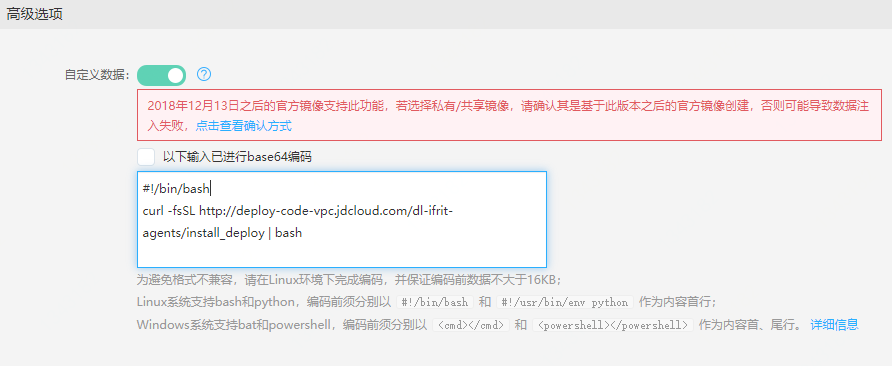
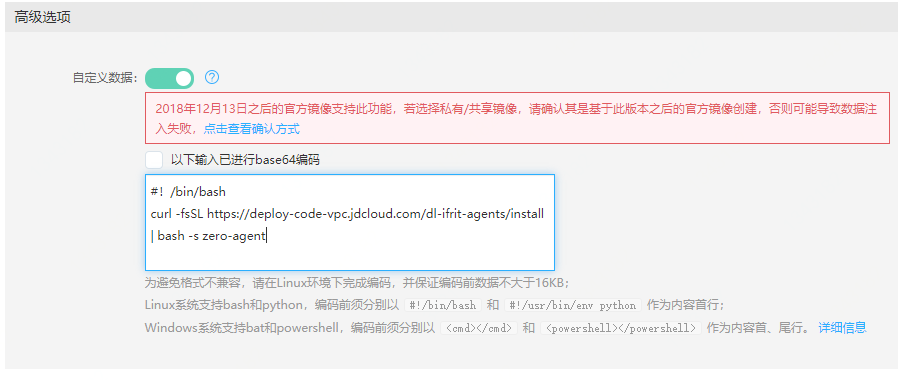
fix bugs
修改了文字上的小问题

Changed region(s): [[0.0603, 0.1784, 0.9955, 0.8919], [0.0, 0.0, 0.0905, 0.0595]]

diff --git a/documentation/Management/OpsWork/Operation-Guide/File-operation.md b/documentation/Management/OpsWork/Operation-Guide/File-operation.md
@@ -2,12 +2,14 @@
 | 字段     | 必须 | 类型   | 含义                                                         | 示例                                                         |
 | -------- | ---- | ------ | ------------------------------------------------------------ | ------------------------------------------------------------ |
 | path     | 是   | string | 要操作的文件绝对路径                                         | /usr/opt/openjdk.tar.gz                                      |
-| action   | 是   | string | _enum_: `copy`、`delete`、`update`、`create`                           | copy                                                         |
+| action   | 是   | string | _enum_: `copy`、`delete`、`update`、`create`                 | copy                                                         |
 | source   | 否   | string | 如果 action=copy，不能为空，可以是本机绝对路径或下载地址<br>支持OSS下载。 | https://download.java.net/java/GA/jdk13/5b8a42f3905b406298b72d750b6919f6/33/GPL/openjdk-13_linux-x64_bin.tar.gz |
 | force    | 否   | bool   | 如果 action=copy，表示是否覆盖已有的同名文件，默认 true      | true                                                         |
 | content  | 否   | string | 如果 action=update，不能为空，要更新的文件内容               | hello world!                                                 |
 | backup   | 否   | bool   | 如果 action=copy/update 且设为 true，则将原同名文件重命名为 "filename.bak.${timestamp}" 形式，默认 false | false                                                        |
+| append   | 否   | bool   | 是否追加写，默认是false（即**覆盖**）                        | false                                                        |
 | md5check | 否   | string | 如 action=copy/update 且非空，则进行 md5sum 检查             | 1d9af91cd042b403e75badd110ccf751                             |
 | mode     | 否   | string | 如 action=copy/update 且非空，执行 chmod                     | 0644                                                         |
 | owner    | 否   | string | 如 action=copy/update 且非空，执行 chown                     | work                                                         |
 | group    | 否   | string | 如 action=copy/update 且非空，执行 chown                     | root                                                         |
+

diff --git a/documentation/Management/OpsWork/Operation-Guide/Package-operation.md b/documentation/Management/OpsWork/Operation-Guide/Package-operation.md
@@ -1,12 +1,14 @@
 # 软件操作 schema
 
-| 字段     | 必须 | 类型   | 含义                                                         | 示例          |
-| -------- | ---- | ------ | ------------------------------------------------------------ | ------------- |
-| name     | 是   | string | 包名                                                         | openjdk-devel |
-| provider | 是   | string | green代表绿色安装，auto代表从yum或apt源自动安装              | green         |
-| version  | 是   | string | 版本。provider字段为auto时该字段无效。                       | 1.0.1         |
-| rootdir  | 否   | string | 自定义根路径，默认 /usr/opt。provider字段为auto时该字段无效。 | /usr/opt      |
-| force    | 否   | bool   | 覆盖已有版本（默认 true）；如传 false 且探测到已安装其他版本，返回127 | true          |
+| 字段             | 必须 | 类型   | 含义                                                         | 示例          |
+| ---------------- | ---- | ------ | ------------------------------------------------------------ | ------------- |
+| name             | 是   | string | 包名                                                         | openjdk-devel |
+| provider         | 是   | string | green代表绿色安装，auto代表从yum或apt源自动安装              | green         |
+| version          | 是   | string | 版本。provider字段为auto时该字段无效。                       | 1.0.1         |
+| rootdir          | 否   | string | 自定义根路径，默认 /usr/opt。provider字段为auto时该字段无效。 | /usr/opt      |
+| force            | 否   | bool   | 覆盖已有版本（默认 true）；如传 false 且探测到已安装其他版本，返回127 | true          |
+| action           | 否   | string | install或upgrade，代表自动从源安装或升级。在provider为auto时必填。 | install       |
+| version_optional | 否   | string | provider为green时，可以支持的version版本。                   |               |
 
 **tips：**
 

diff --git a/documentation/Management/OpsWork/Operation-Guide/Operation-parameters.md b/documentation/Management/OpsWork/Operation-Guide/Operation-parameters.md
@@ -1,4 +1,4 @@
-# 基础参数
+# 操作基础参数
 
 基础参数是每一个操作都会带有的参数。
 
@@ -16,7 +16,7 @@
 
 | 字段     | 必须 | 类型   | 含义                                                         | 示例                 |
 | -------- | ---- | ------ | ------------------------------------------------------------ | -------------------- |
-| connect  | 否   | string | 逻辑连接， _enum_: `and`、`or`，默认空，左优先               | success              |
-| key      | 是   | string | 要比较的变量名，内置支持 `$name.code`、`$name.stdout`、`$name.stderr` 三种方式获取已执行完成操作的返回值、标准输出、标准错误 | prepare_install:code |
+| connect  | 否   | string | 逻辑连接， _enum_: `and`、`or`，默认空，左优先               |                      |
+| key      | 是   | string | 要比较的变量名，内置支持 `$name.code`获取已执行完成操作的返回值 | prepare_install.code |
 | operator | 是   | string | _enum_: <br>`>`、`<`、`=`、`>=`、`<=`、`!=`、`<`<br>`in`-key 字符串包含于 value 字符串<br>`notIn`-key 字符串不包含于 value 字符串<br>`contain`-key 字符串包含 value 字符串<br>`notContain`-key 字符串不包含 value 字符串 | notIn                |
-| value    | 是   | string | 要比较的值                                                   | success              |
+| value    | 是   | string | 要比较的值，`$name.code`返回值只有0，1.代表正常结束和异常结束 | 0                    |

diff --git a/documentation/Management/OpsWork/Operation-Guide/Agent-install.md b/documentation/Management/OpsWork/Operation-Guide/Agent-install.md
@@ -18,7 +18,7 @@
 手动安装，请登录到待安装/异常主机，执行以下命令
 
 ```shell
-curl -fsSL http://deploy-code-vpc.jdcloud.com/dl-ifrit-agents/install_deploy | bash
+curl -fsSL https://deploy-code-vpc.jdcloud.com/dl-ifrit-agents/install | bash -s zero-agent
 ```
 
 以向华北-北京地域的云主机安装Agent为例，
@@ -31,6 +31,6 @@ Agent状态为“正常”、“异常”两种。
 
 **版本升级**
 
-当Agent发布新版本时，将自动进行版本升级，且更新过程对用户透明，不会影响云部署的功能使用。
+当Agent发布新版本时，将自动进行版本升级，且更新过程对用户透明，不会影响云部署和运维工具的功能使用。
 
 3）批量安装agent

diff --git a/documentation/Management/OpsWork/Getting-Started/Sample-module.md b/documentation/Management/OpsWork/Getting-Started/Sample-module.md
@@ -8,7 +8,7 @@
 
    注意：**名称不可以重复**，且必填
 
-3. 按下方的**加号图标**添加操作,出现弹窗。
+3. 按下方的**添加**按钮,出现弹窗。
 
 4. 选择**安装tomcat**，点击**确定**
 
@@ -18,7 +18,7 @@
 
 ![](../../../../image/opswork/Sample-3.PNG)
 
-6. 继续添加操作，这次选择**命令-执行shell命令**，用来编辑启动tomcat命令：
+6. 把鼠标移至左侧**绿色安装tomcat**时，会出现上下的两个加号，代表可以在此操作之前和之后添加其他操作。这次我们在之后添加操作选择**命令-执行shell命令**，用来编辑启动tomcat命令：
   ```shell
   将 echo hello
   替换为：

diff --git a/documentation/Management/OpsWork/Operation-Guide/Module.md b/documentation/Management/OpsWork/Operation-Guide/Module.md
@@ -52,5 +52,5 @@
 
 操作分为三类：软件操作、文件操作、命令操作
 
- 操作字段描述见：操作手册。
+ 操作字段描述见：操作基础参数、命令操作schema、软件操作schema、文件操作schema
 

diff --git a/documentation/Management/OpsWork/Getting-Started/History.md b/documentation/Management/OpsWork/Getting-Started/History.md
@@ -4,7 +4,7 @@
 
 ![](../../../../image/opswork/History.PNG)
 
-对于执行失败的模板，支持重试。
+对于**执行失败且没有发生内容变更**的模板，支持重试。
 
 
 
